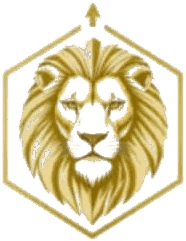
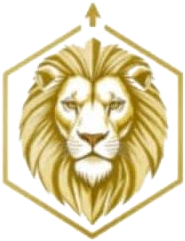
Rebuild crest with an opaque lion instead of a white plate
The soft matte keyed out the lion's white muzzle and pale mane along with
the field, so the face read as a negative on the dark ground. The matte
now only applies to the field around the lion (flood-filled from outside);
the lion itself is opaque. Drops the white plate added in the last commit.

diff --git a/components/chrome/Footer.tsx b/components/chrome/Footer.tsx
@@ -12,13 +12,30 @@ import { COMPANY, LEADERSHIP, PARKS } from '@/content/site';
  * knockout punches holes through the lion's muzzle and leaves a grey halo of
  * JPEG ringing. It needs a soft matte off the darkest channel instead:
  *
- *   magick public/logo-jalan.jpg -colorspace sRGB  *     \( +clone -channel RGB -separate -evaluate-sequence min  *        -negate -level 9%,40% \)  *     -alpha off -compose CopyOpacity -composite -trim +repage  *     -strip -dither None -colors 64 public/crest.png
+ *   magick public/logo-jalan.jpg -colorspace sRGB -channel RGB -separate
+ *     -evaluate-sequence min -negate -level 9%,40% +channel matte.png
  *
  * The 9% floor is what kills the halo — measure it before changing it, the
  * supplied JPEG carries up to 7.5% alpha of near-white in the background.
  *
- * The matte also keys out the lion's pale muzzle and mane highlights, so on
- * this dark ground the face reads inverted. It is set on a white plate.
+ * That matte alone also keys out the lion's white muzzle and pale mane, and
+ * on the dark ground the face then reads as a negative. So the matte only
+ * applies to the field around the lion: flood-fill the field from outside
+ * (it is one connected region through the gap under the arrow), and force
+ * everything it does not reach to opaque:
+ *
+ *   magick public/logo-jalan.jpg -fuzz 12% -fill magenta
+ *     -draw "color 0,0 floodfill" -draw "color 52,130 floodfill"
+ *     -draw "color 192,130 floodfill" -draw "color 62,70 floodfill"
+ *     -draw "color 182,70 floodfill"
+ *     -fill black -opaque magenta -fill white +opaque black
+ *     -morphology Erode Disk:1.5 -blur 0x0.7 interior.png
+ *   magick matte.png interior.png -compose Lighten -composite alpha.png
+ *   magick public/logo-jalan.jpg alpha.png -alpha off -compose CopyOpacity
+ *     -composite -trim +repage -strip public/crest.png
+ *
+ * The erode keeps the fill-edge fringe on the soft matte rather than opaque,
+ * which would otherwise draw a pale outline around the mane.
  */
 export default function Footer() {
   return (
@@ -29,9 +46,9 @@ export default function Footer() {
             <img
               src="/crest.png"
               alt=""
-              width={186}
+              width={185}
               height={241}
-              className="mb-6 box-content h-16 w-auto select-none rounded-sm bg-white p-2"
+              className="mb-6 h-16 w-auto select-none"
               draggable={false}
             />
             <p className="display text-[length:var(--text-display-s)] text-white">

diff --git a/components/chrome/Header.tsx b/components/chrome/Header.tsx
@@ -105,16 +105,16 @@ export default function Header() {
             className="flex items-center gap-3"
             aria-label={`${COMPANY.name} — home`}
           >
-            {/* The crest's white field is keyed out, and so are the pale parts
-                of the lion — on the dark ground those read as black and the
-                face looks inverted. It sits on a white plate so they read as
-                white, the way the mark was drawn. */}
+            {/* The crest is gold line work on transparent, so it sits on the
+                dark ground without a plate behind it. Sized off the wordmark's
+                cap height rather than a round number, so the two read as one
+                lockup instead of a badge parked next to some type. */}
             <img
               src="/crest.png"
               alt=""
-              width={186}
+              width={185}
               height={241}
-              className="box-content h-8 w-auto shrink-0 select-none rounded-sm bg-white p-1"
+              className="h-8 w-auto shrink-0 select-none"
               draggable={false}
             />
             <span className="display text-[1.0625rem] leading-none tracking-tight text-white">
